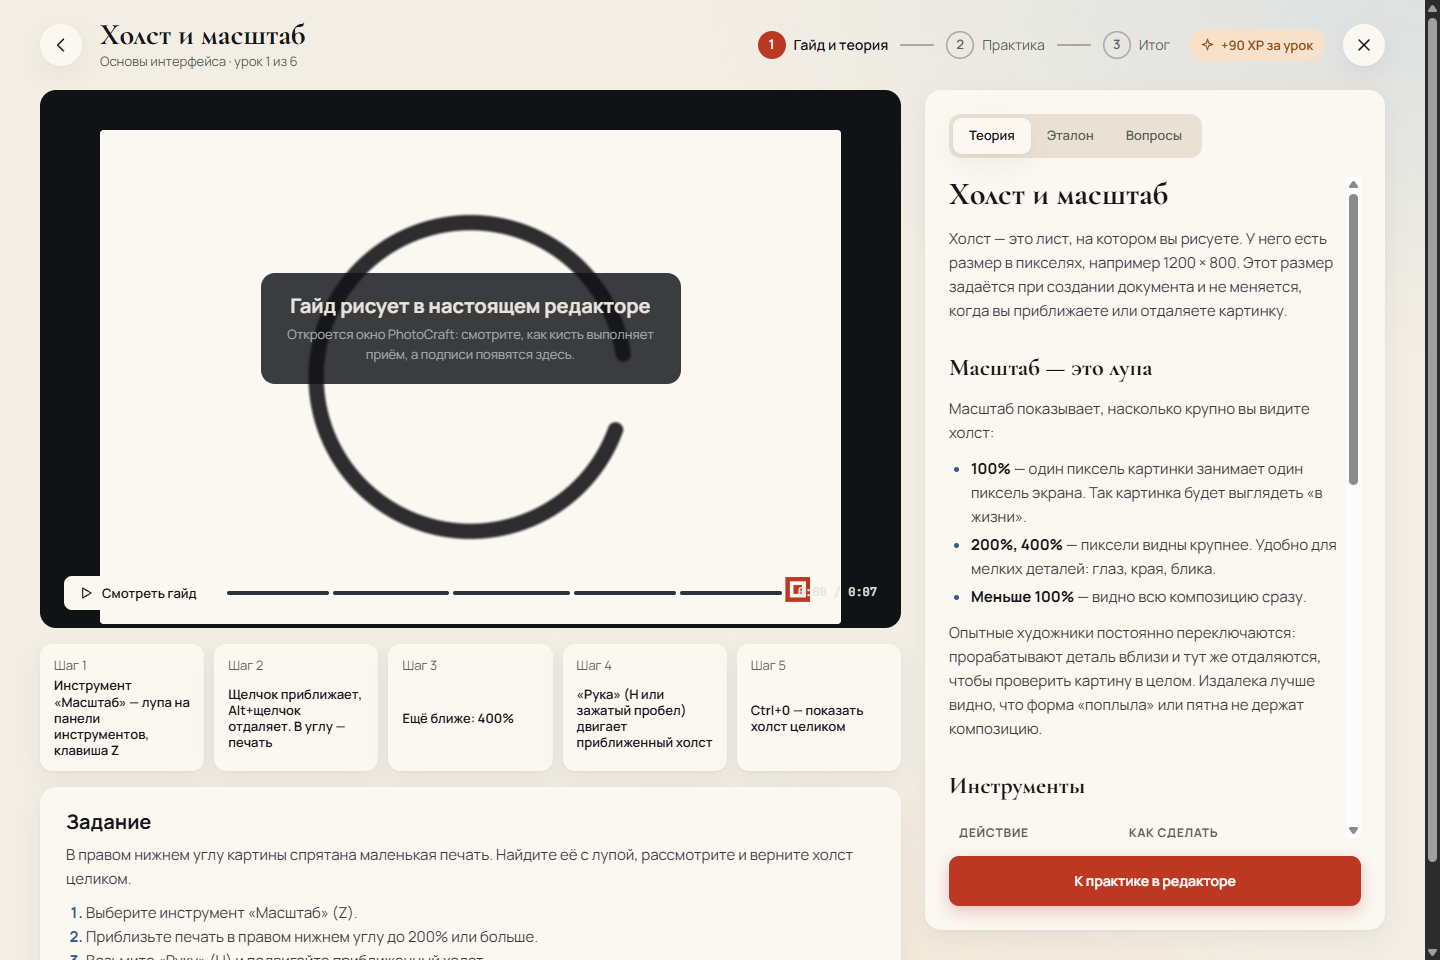
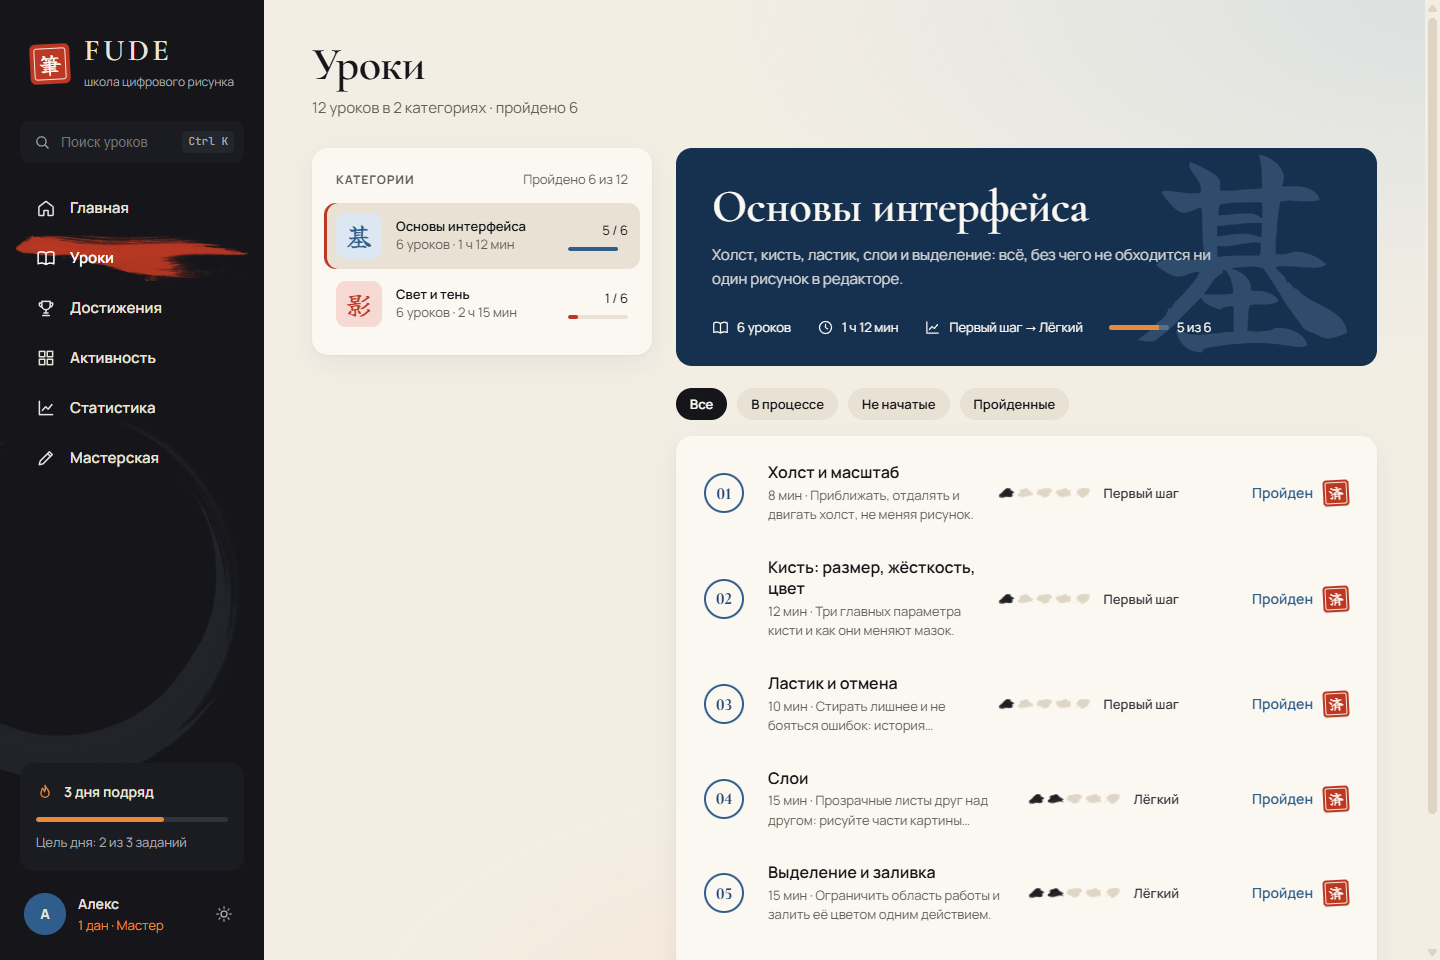
README: новые скриншоты, студия урока, тёмная тема, тушь из мазков

diff --git a/README.md b/README.md
@@ -1,26 +1,35 @@
 # FUDE 筆
 
+**Русский** · [English](README.en.md)
+
 **FUDE** («кисть» по-японски) — приложение для обучения цифровому рисунку в графическом редакторе. За образец взят Photoshop, а сам редактор — открытый [PhotoCraft](https://github.com/storytold/photocraft), перекрашенный в стиль FUDE: японская живопись тушью, бумага васи, индиго и киноварь.
 
 Дипломный проект (4 курс).
 
 <p align="center">
-  <img src="design/photocraft-fude-ink.png" alt="Редактор PhotoCraft в теме FUDE Тушь: тёмные панели, сфера с тенью на холсте" width="49%">
-  <img src="design/photocraft-fude-washi.png" alt="Редактор PhotoCraft в теме FUDE Васи: кремовые панели цвета бумаги" width="49%">
+  <img src="design/app-home.png" alt="Главная: текущий урок с энсо и горами из настоящих мазков туши, задания на сегодня, рекомендации" width="49%">
+  <img src="design/app-home-dark.png" alt="Главная в тёмной теме «Тушь»" width="49%">
 </p>
-
 <p align="center">
   <img src="design/app-guide.png" alt="Урок: гайд рисует в редакторе, встроенном в окно FUDE" width="49%">
   <img src="design/app-practice.png" alt="Практика: редактор PhotoCraft внутри окна FUDE, справа шаги задания и автопроверка" width="49%">
 </p>
 <p align="center">
-  <img src="design/app-lessons.png" alt="Каталог уроков" width="49%">
-  <img src="design/app-result.png" alt="Итог урока с печатью 完" width="49%">
+  <img src="design/app-lessons.png" alt="Каталог уроков по категориям" width="49%">
+  <img src="design/app-activity.png" alt="Активность: год в мазках туши, серии, неделя столбцами-мазками, журнал" width="49%">
+</p>
+<p align="center">
+  <img src="design/app-studio.png" alt="Студия урока: холст задания с линиями подсказки и областями проверок, шаги и готовность урока" width="49%">
+  <img src="design/app-result.png" alt="Итог урока с печатью 完: работа ученика рядом с эталоном, опыт и рост навыков" width="49%">
+</p>
+<p align="center">
+  <img src="design/photocraft-fude-ink.png" alt="Редактор PhotoCraft в теме FUDE Тушь: тёмные панели, сфера с тенью на холсте" width="49%">
+  <img src="design/photocraft-fude-washi.png" alt="Редактор PhotoCraft в теме FUDE Васи: кремовые панели цвета бумаги" width="49%">
 </p>
 
 ## Что это
 
-Ученик выбирает категорию и урок, смотрит анимированный видеогайд, читает теорию и выполняет задание прямо во встроенном редакторе. Редактор работает внутри окна FUDE с выдвижной панелью задания — удобно на одном небольшом экране — или отдельным окном, если удобнее два монитора. Свои уроки и категории можно создавать в редакторе уроков, а чужие — импортировать из файла `.fude`. Всё работает локально, без учётных записей. Режим подсказки показывает, куда нажать, и рисует на холсте теневую фигуру. Использование подсказок учитывается в статистике. Прогресс видно на вкладках «Достижения», «Активность» (по дням, как на GitHub) и «Статистика» (рост отдельных сторон навыка).
+Ученик выбирает категорию и урок, смотрит анимированный видеогайд, читает теорию и выполняет задание прямо во встроенном редакторе. Редактор работает внутри окна FUDE с выдвижной панелью задания — удобно на одном небольшом экране — или отдельным окном, если удобнее два монитора. Свои уроки и категории создаются в студии урока: на холсте задания видно, что делаешь, — линии подсказки, области проверок, эталон поверх, гайд на дорожках времени, живая проверка и просмотр «глазами ученика». Чужие уроки импортируются из файла `.fude`. Всё работает локально, без учётных записей. Режим подсказки показывает, куда нажать, и рисует на холсте теневую фигуру. Использование подсказок учитывается в статистике. Прогресс видно на вкладках «Достижения», «Активность» (по дням, как на GitHub) и «Статистика» (рост отдельных сторон навыка). Две темы — светлая «Васи» и тёмная «Тушь»; мазки, энсо и горы в интерфейсе — из настоящих мазков туши, а не нарисованы кодом.
 
 Подробно о продукте, аудитории и ограничениях — в [PRODUCT.md](PRODUCT.md).
 
@@ -28,7 +37,7 @@
 
 | Часть | Состояние | Где |
 |---|---|---|
-| Макет всех экранов в Figma: 13 экранов, включая состояния первого дня и ошибок | готов | [docs/design-system.md](docs/design-system.md) |
+| Макет всех экранов в Figma: 13 экранов, включая состояния первого дня и ошибок, тёмная тема, студия урока | готов | [docs/design-system.md](docs/design-system.md) |
 | Дизайн-система: цвета, шрифты, компоненты, движение | готова | [docs/design-system.md](docs/design-system.md) |
 | Анимация открытия (3,6 с) на ключевых кадрах Figma | готова | [design/fude-splash.mp4](design/fude-splash.mp4) |
 | Редактор: PhotoCraft с темами FUDE Тушь и FUDE Васи | готов, тесты проходят | [docs/editor.md](docs/editor.md) |
@@ -36,9 +45,12 @@
 | Редактор без связи с репозиторием PhotoCraft: без проверки обновлений и сетевых запросов, ссылки только на FUDE | сделано, тесты | [docs/editor.md](docs/editor.md#3-без-связи-с-репозиторием-photocraft) |
 | Редактор в окне FUDE или отдельным окном (Windows) | работает | [docs/app.md](docs/app.md#редактор-в-окне-fude-или-отдельно) |
 | Формат уроков и пакетов `.fude` | готов | [docs/lesson-format.md](docs/lesson-format.md) |
-| Ядро уроков `fude-core`: библиотека, проверка заданий, гайды, подсказки, импорт и экспорт, редактор уроков; CLI `fude-cli` | готово, 93 теста | [core/](core/), [docs/architecture.md](docs/architecture.md) |
+| Ядро уроков `fude-core`: библиотека, проверка заданий, гайды, подсказки, живая проверка, запись гайда, импорт и экспорт; CLI `fude-cli` | готово, 105 тестов | [core/](core/), [docs/architecture.md](docs/architecture.md) |
 | Встроенные уроки: «Основы интерфейса» и «Свет и тень», 12 уроков | готовы | [lessons/](lessons/) |
-| Приложение: Tauri + SvelteKit, все экраны макета, практика в PhotoCraft с автопроверкой и подсказками, прогресс в SQLite, мастерская уроков | работает, 24 + 24 теста | [app/](app/), [docs/app.md](docs/app.md) |
+| Приложение: Tauri + SvelteKit, все экраны макета, практика в PhotoCraft с автопроверкой и подсказками, прогресс в SQLite, мастерская уроков | работает, 49 + 60 тестов | [app/](app/), [docs/app.md](docs/app.md) |
+| Студия урока: холст задания, линии подсказки, области проверок, гайд на дорожках времени, запись гайда из PhotoCraft, живая проверка | работает | [docs/app.md](docs/app.md#студия-урока) |
+| Темы «Васи» и «Тушь», переключатель у профиля | готовы | [docs/design-system.md](docs/design-system.md#тёмная-тема-тушь) |
+| Тушь из настоящих мазков (кисти Sumi Strokes): мазки меню, энсо, горы, год активности | готова | [docs/design-system.md](docs/design-system.md#тушь-и-формы) |
 
 ## Структура репозитория
 
@@ -62,7 +74,7 @@ FUDE/
 │   ├── testing.md        какие есть тесты и как их запускать
 │   ├── contributing.md   ветки, коммиты, как вносить изменения
 │   └── roadmap.md        план работ
-├── design/            материалы макета: видео заставки, скриншоты редактора
+├── design/            материалы макета: видео заставки, скриншоты, генераторы значка и картинок туши
 └── photocraft/        редактор: копия storytold/photocraft@c65b5d2 с изменениями FUDE
 ```
 

diff --git a/docs/testing.md b/docs/testing.md
@@ -14,7 +14,7 @@
 | ядро уроков и уроки | `cargo test -p fude-core` (из корня) | 105 прошли, 0 упали |
 | бэкенд приложения | `cargo test -p fude-app` | 49 прошли, 0 упали |
 | гайды в настоящем PhotoCraft | `cargo test -p fude-app --test real_editor -- --ignored` | 12 из 12 гайдов решают свои задания |
-| интерфейс | `cd app && npm test` | 55 прошли, 0 упали |
+| интерфейс | `cd app && npm test` | 60 прошли, 0 упали |
 | типы интерфейса | `cd app && npm run check` | 0 ошибок, 0 предупреждений |
 | clippy | `cargo clippy --workspace --all-targets --locked -- -D warnings` | без предупреждений |
 | формат | `cargo fmt --all --check` | без отличий |
